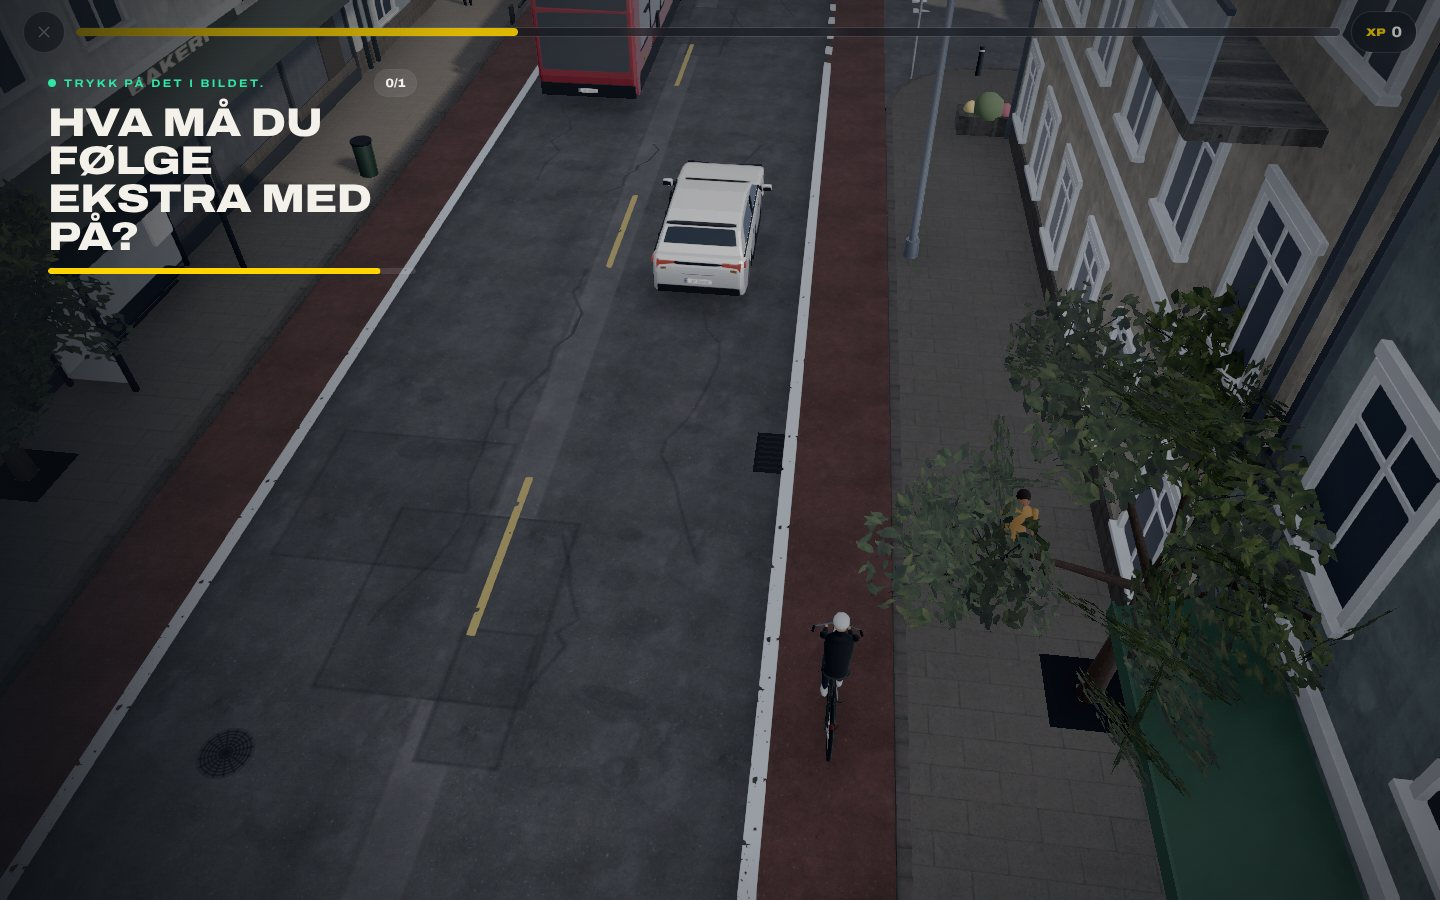
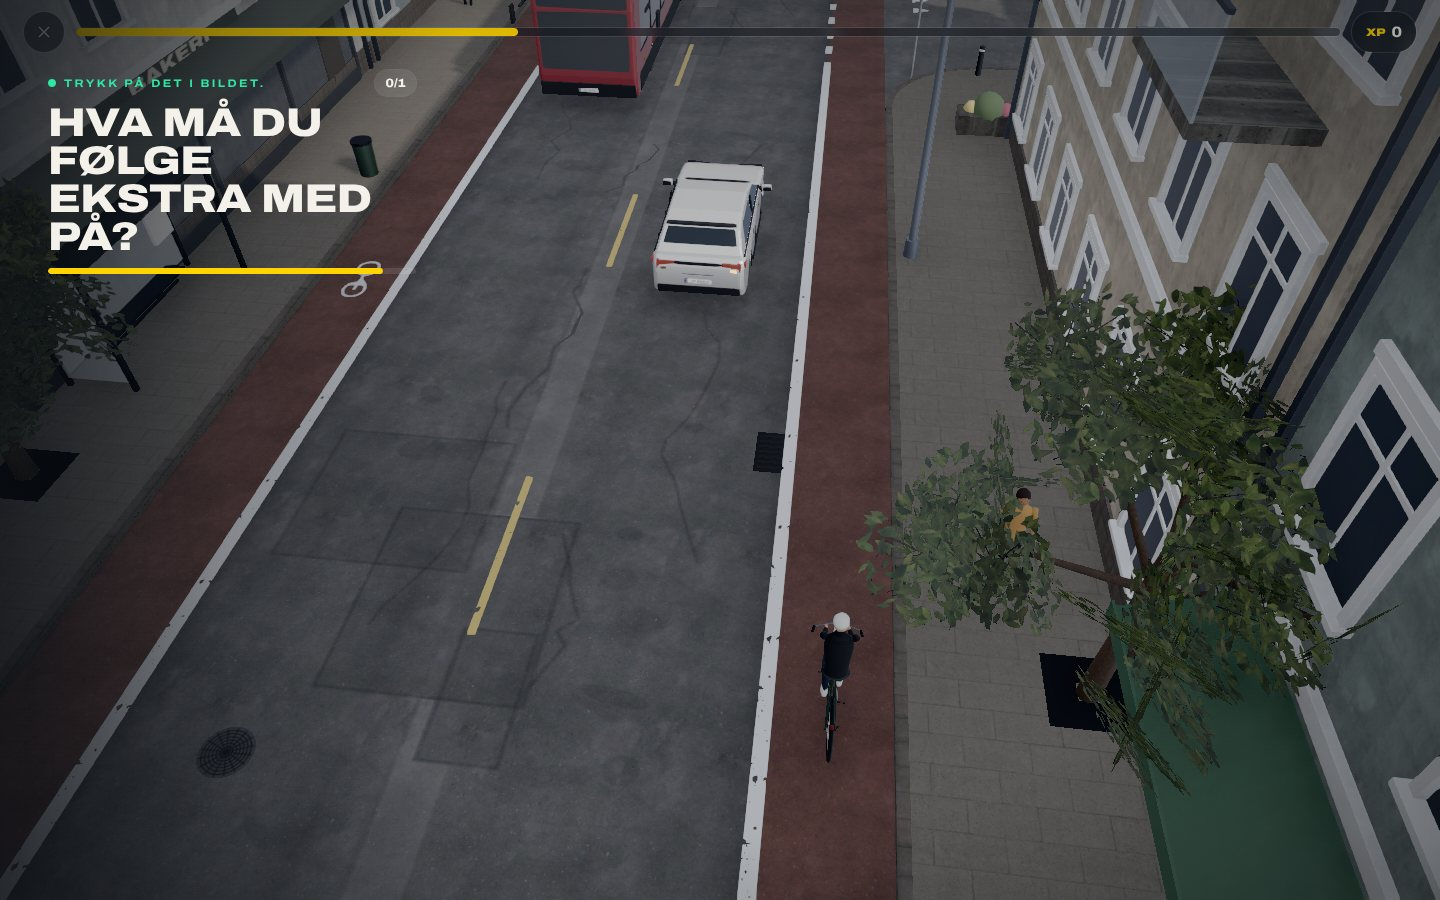
Follow-up polish: 1039 bicycle symbols in S3 bike lanes, S3 sky fill light, practice header wraps on phones
Claude-Session: https://claude.ai/code/session_01HYbsofwaR8GCDESEoNdPsE

diff --git a/src/three/env/CityStreet.tsx b/src/three/env/CityStreet.tsx
@@ -2,7 +2,7 @@ import { useMemo } from 'react'
 import { BYGATE } from '../../scenarios/layouts'
 import { MergeStatic, Sign, StreetPlate } from '../kit'
 import { ParkedBike } from '../render/characters'
-import { BikeRack, Bench2, Bollard, BusShelter2, CityBlock, LitterBin, Planter, TreeGrate, bikeLaneMaterial, dashedMark, lineMark, markingMaterial, yieldTeeth, type BlockSpec } from '../render/citykit'
+import { BikeRack, Bench2, Bollard, BusShelter2, CityBlock, LitterBin, Planter, TreeGrate, bikeLaneMaterial, bikeSymbol, bikeSymbolMaterial, dashedMark, lineMark, markingMaterial, yieldTeeth, type BlockSpec } from '../render/citykit'
 import type { QualitySettings } from '../render/quality'
 import { cornerGeo, curbArcGeo, Drain, ForestHills, groundPlane, Manhole, RoadWear, StreetLight, UtilityCabinet } from '../render/streetkit'
 import { surface } from '../render/materials'
@@ -71,6 +71,13 @@ export function CityStreet({ quality }: { quality: QualitySettings }) {
       }
     }
     out.push({ g: dashedMark('x', 0, RH + 6, RH + SIDE_LEN, 3, 6, 0.12), m: yellow, cast: false })
+    // 1039 sykkelsymbol every ~24 m in both lanes (and right after the side-street mouth)
+    const sym = bikeSymbolMaterial()
+    for (let z = Z.from + 10; z < Z.to - 4; z += 24) {
+      if (Math.abs(z) > SH + 3) out.push({ g: bikeSymbol(RH - B / 2, z, 0), m: sym, cast: false })
+      out.push({ g: bikeSymbol(-(RH - B / 2), z + 12, Math.PI), m: sym, cast: false })
+    }
+    out.push({ g: bikeSymbol(RH - B / 2, -SH - 3.2, 0), m: sym, cast: false })
     // side-street traffic gives way to the main street: haitenner across its exit lane (z ∈ [−4, 0], heading −x)
     out.push({ g: yieldTeeth(RH + 0.9, -SH / 2, SH - 0.3, Math.PI / 2), m: white, cast: false })
     return out
@@ -169,6 +176,8 @@ export function CityStreet({ quality }: { quality: QualitySettings }) {
       <ParkedBike x={RH + SW - 0.55} z={-10.4} rot={Math.PI / 2 + 0.05} variant={3} kick={0} />
       <ParkedBike x={RH + SW - 0.55} z={-12.0} rot={Math.PI / 2 - 0.05} variant={1} kick={0} />
       <RoadWear axis="z" at={0} from={Z.from} to={Z.to} width={(RH - B) * 2} />
+      {/* sky fill: the street canyon is mostly in building shadow; keeps the shaded side readable, not gloomy */}
+      <hemisphereLight args={['#e4ecf4', '#a09682', 1.2]} />
       <Sign x={RH + 0.6} z={34} kind="fart40" />
       <Sign x={RH + 1.2} z={-SH - 0.6} rot={Math.PI / 2} kind="vikeplikt" />
       <StreetPlate x={RH + 0.7} z={SH + 0.8} name="Kirkegata" />

diff --git a/src/three/render/citykit.tsx b/src/three/render/citykit.tsx
@@ -71,6 +71,64 @@ export function markingMaterial(color: 'white' | 'yellow') {
   return m
 }
 
+/* Sykkelsymbol (vegoppmerking 1039): white bicycle painted in a bike lane. */
+let bikeSymMat: THREE.MeshStandardMaterial | null = null
+export function bikeSymbolMaterial() {
+  if (bikeSymMat) return bikeSymMat
+  const c = document.createElement('canvas')
+  c.width = 128
+  c.height = 200
+  const g = c.getContext('2d')!
+  g.strokeStyle = '#fff'
+  g.lineCap = 'round'
+  g.lineJoin = 'round'
+  g.lineWidth = 9
+  // drawn upright (front wheel at the top), stretched along the lane like real road paint
+  const wheel = (y: number) => {
+    g.beginPath()
+    g.ellipse(64, y, 30, 34, 0, 0, Math.PI * 2)
+    g.stroke()
+  }
+  wheel(46)
+  wheel(154)
+  g.beginPath()
+  g.moveTo(64, 154) // rear hub
+  g.lineTo(64, 100) // bottom bracket
+  g.lineTo(64, 46) // front hub via fork
+  g.moveTo(64, 100)
+  g.lineTo(40, 72) // down tube to bars
+  g.lineTo(88, 72)
+  g.moveTo(64, 100)
+  g.lineTo(64, 128) // seat tube
+  g.moveTo(50, 128)
+  g.lineTo(78, 128) // saddle
+  g.stroke()
+  const t = new THREE.CanvasTexture(c)
+  t.colorSpace = THREE.SRGBColorSpace
+  bikeSymMat = new THREE.MeshStandardMaterial({
+    color: '#e9e7df',
+    map: t,
+    alphaTest: 0.5,
+    transparent: false,
+    roughness: 0.62,
+    polygonOffset: true,
+    polygonOffsetFactor: -4,
+    polygonOffsetUnits: -4,
+    envMapIntensity: 0.6,
+  })
+  bikeSymMat.name = 'marking:bike'
+  return bikeSymMat
+}
+
+/** One bicycle symbol, 0.9 × 1.4 m. rot = 0 reads correctly for traffic heading −z. */
+export function bikeSymbol(x: number, z: number, rot = 0) {
+  const g = new THREE.PlaneGeometry(0.9, 1.4)
+  g.rotateX(-Math.PI / 2)
+  if (rot) g.rotateY(rot)
+  g.translate(x, 0.007, z)
+  return g
+}
+
 /** Flat rectangle mark centred at (x, z), w along x, d along z, optional yaw. */
 export function markRect(x: number, z: number, w: number, d: number, rot = 0) {
   const g = new THREE.PlaneGeometry(w, d)

diff --git a/src/ui/screens/PracticeScreen.tsx b/src/ui/screens/PracticeScreen.tsx
@@ -113,7 +113,7 @@ function PracticeRun({ mode, onAgain }: { mode: Mode; onAgain: () => void }) {
           </button>
           <div className="min-w-0 flex-1">
             <div className="eyebrow text-[10px] text-signal">{mode === 'exam' ? 'Prøvekjøring · simulert' : 'Øvelseskjøring'}</div>
-            <div className="truncate text-[12px] font-semibold text-mist">Treningsvurdering – ikke en offisiell kjøreprøve</div>
+            <div className="line-clamp-2 text-[12px] font-semibold leading-tight text-mist">Treningsvurdering – ikke en offisiell kjøreprøve</div>
           </div>
           <button
             aria-pressed={voiceOn}

diff --git a/src/learning/signs.ts b/src/learning/signs.ts
@@ -28,6 +28,7 @@ export const SIGNS: SignEntry[] = [
   { no: '1012', name: 'Kantlinje', group: 'oppmerking', inWorld: true },
   { no: '1022', name: 'Vikelinje', group: 'oppmerking', inWorld: true },
   { no: '1024', name: 'Gangfelt', group: 'oppmerking', inWorld: true },
+  { no: '1039', name: 'Sykkelsymbol', group: 'oppmerking', inWorld: true },
 ]
 
 export const SIGN_BY_NO = new Map(SIGNS.map((s) => [s.no, s]))

diff --git a/docs/CRITIQUE_PHASE3.md b/docs/CRITIQUE_PHASE3.md
@@ -17,7 +17,7 @@ Method: capture all 18 required views (desktop 1440×900, phone 390×844 @2x, fo
 | 7 | Sidewalk paving read brown and dirty | **Fixed.** Lighter neutral paving tint |
 | 8 | People read as mannequins (no face, hair or cloth folds) | **Open (asset).** Needs rigged characters, see `ASSET_AUDIT.md` |
 | 9 | Player car is boxy from the chase camera (flat rear panel, no interior) | **Open (asset).** Needs an authored glTF car |
-| 10 | The S3 street canyon sits in building shadow, so the image is low-key | **Open.** Per-scene sun azimuth or a fill light; deliberately not done this pass, to keep one global light rig |
+| 10 | The S3 street canyon sits in building shadow, so the image is low-key | **Fixed (follow-up).** S3-only sky fill light; the global light rig is unchanged |
 
 ## Mobile: top 5
 
@@ -25,7 +25,7 @@ Method: capture all 18 required views (desktop 1440×900, phone 390×844 @2x, fo
 |---|---|---|
 | 1 | The progression map had no sense of travel | **Fixed.** The player's car drives the road to the next level (DOM + rAF, ~1.6 s once), light scroll parallax, START tag moved below the node so it never collides with the car. Reduced motion: static |
 | 2 | Map world counter overlapped the parallax skyline | **Fixed.** z-order |
-| 3 | Practice header subtitle truncates at 390 px («ikke en offis…») | **Open.** Minor. The full text is on the start sheet and the assessment |
+| 3 | Practice header subtitle truncates at 390 px («ikke en offis…») | **Fixed (follow-up).** Wraps to two lines |
 | 4 | Medium-tier textures look soft at DPR 2 | **Accepted.** Medium caps anisotropy and drops post FX for phone GPUs |
 | 5 | The decision panel covers the lower half on phones | **Checked.** The hazard (car from the right, pedestrian, cyclist) stays in the upper half in every scenario: the director frames the hazard above the panel |
 

diff --git a/docs/SIGNAGE_AUDIT.md b/docs/SIGNAGE_AUDIT.md
@@ -39,6 +39,7 @@ the scenario teaches.
 | 1012 | Kantlinje | White | S4, S5 |
 | 1022 | Vikelinje (triangles) | White | S3 side street, S5 entries |
 | 1024 | Gangfelt (zebra) | White | S4, S5 |
+| 1039 | Sykkelsymbol | White | S3 bike lanes |
 
 ## Open items for expert review
 
@@ -49,8 +50,8 @@ the scenario teaches.
    shape and size are in the vegoppmerking handbook. The triangle size is approximate.
 3. **Sign size and height** are simplified (0.75 m panel at 2.3 m). Real sizes depend on the
    speed limit and road class (handbook N300).
-4. **Bicycle symbol 1039** is not painted in the S3 bike lanes yet. The skillelinje and the red
-   surface carry the meaning for now. Add the symbol before any claim of being «correct».
+4. **Bicycle symbol 1039** is now painted in both S3 bike lanes (about every 24 m, and right after
+   the side-street mouth). Its proportions are approximate; check against the handbook.
 5. **S5 roundabout** has no sign 406 *Påbudt rundkjøring* and no fareskilt 126. Both are
    optional depending on the site. Confirm the minimal set an instructor expects.
 6. **Street-name plates** («Lerkeveien», «Kirkegata») are fictional names and not traffic signs.
